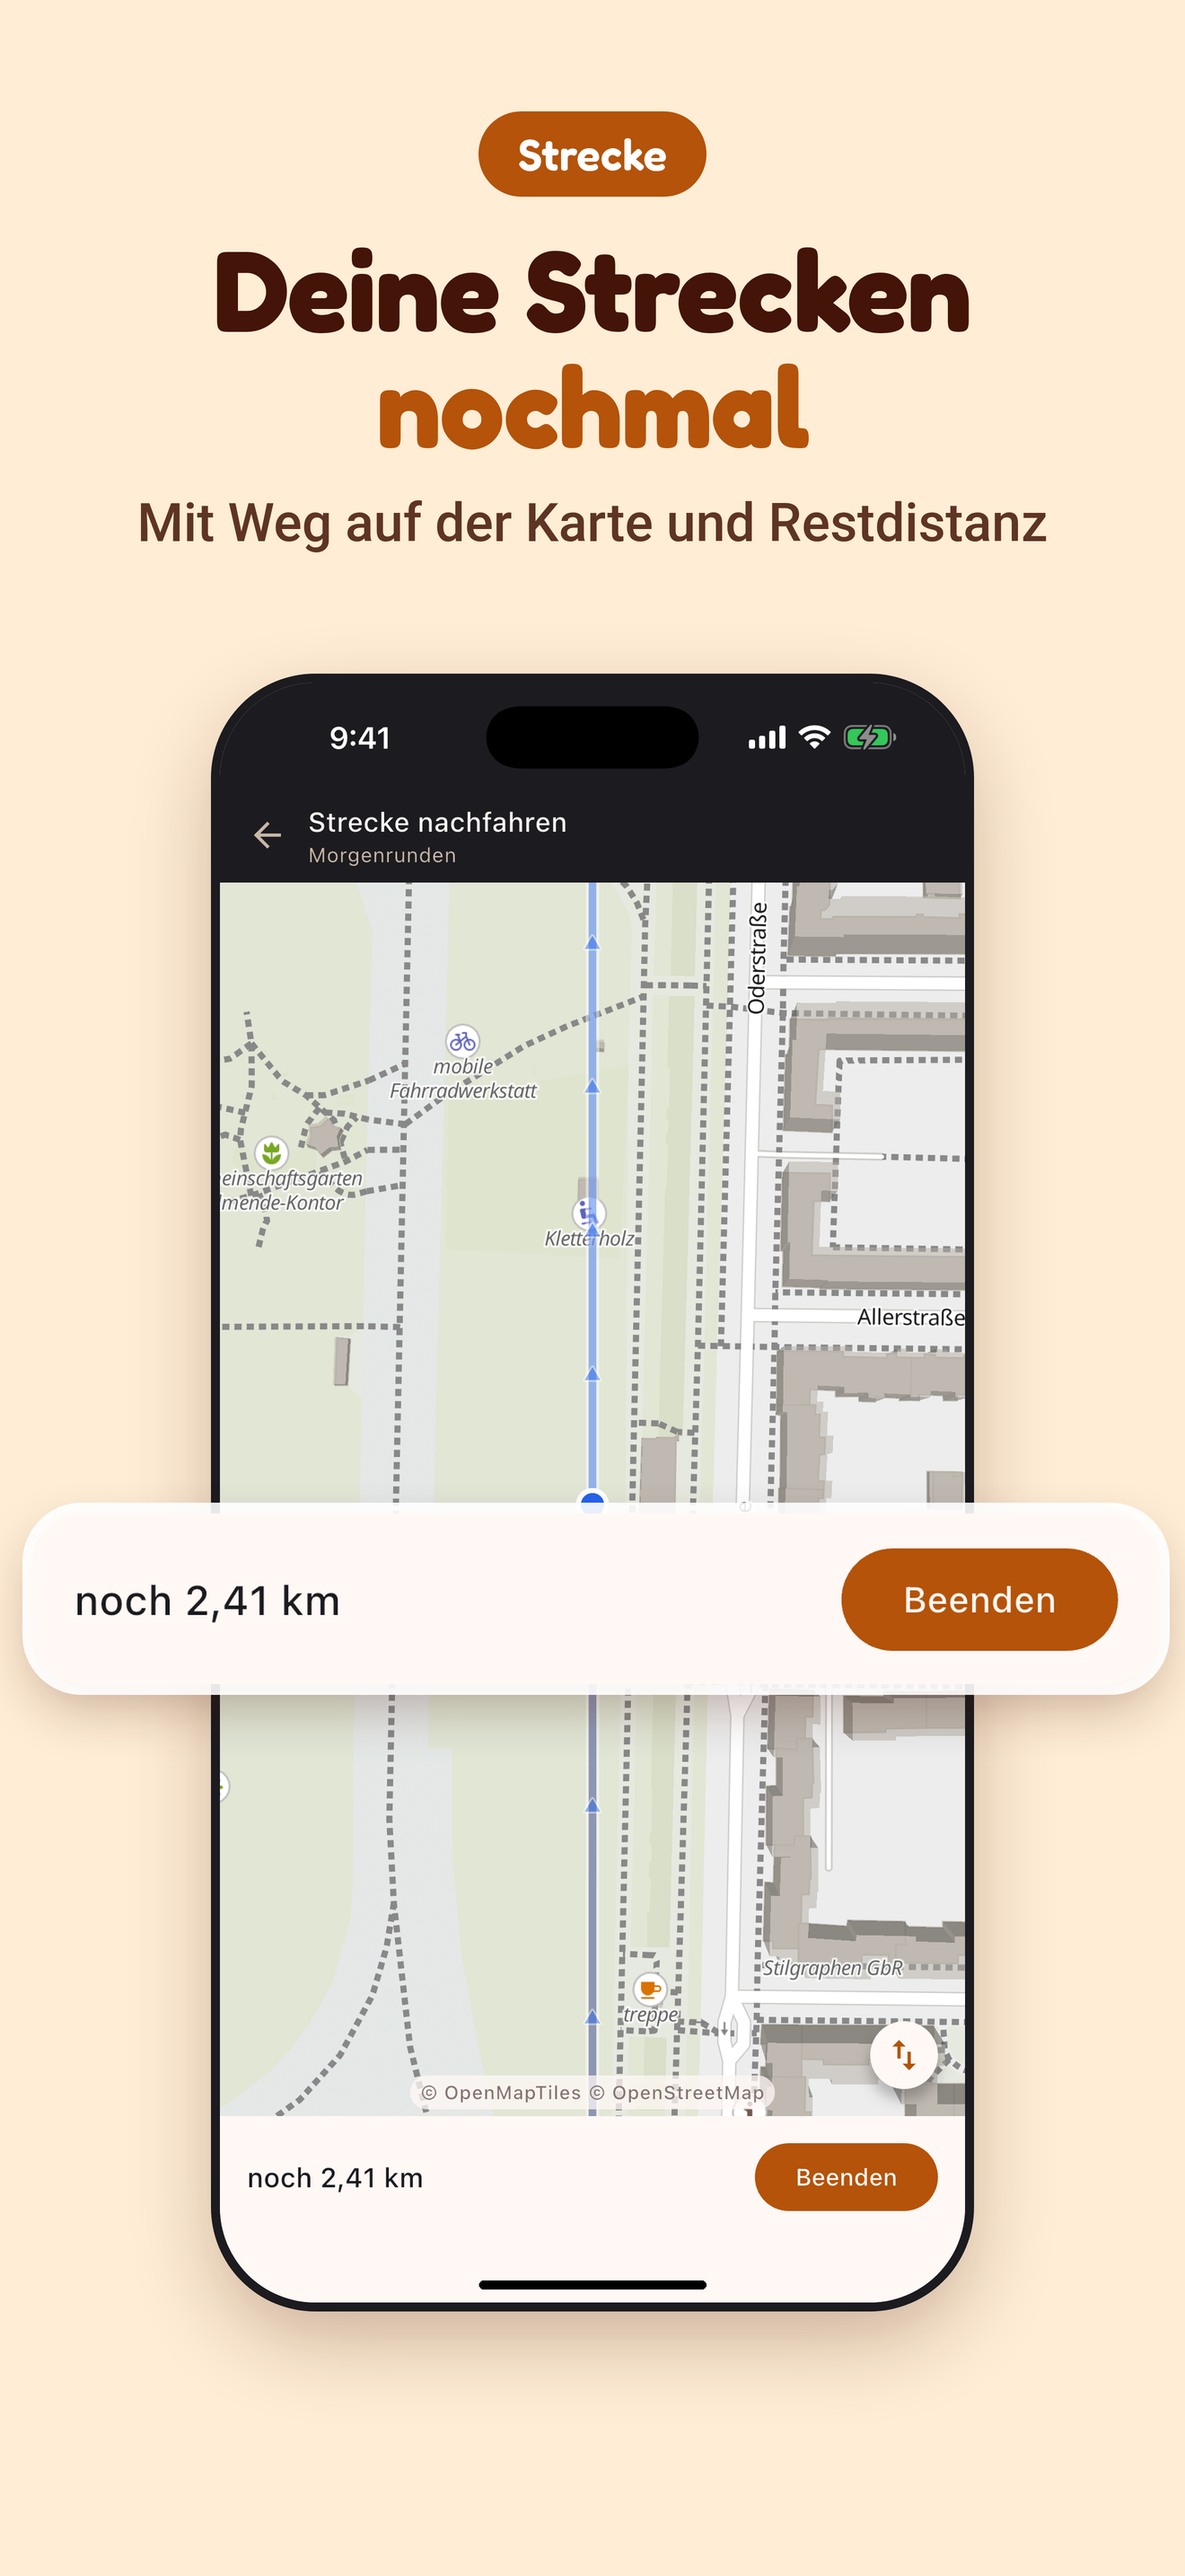
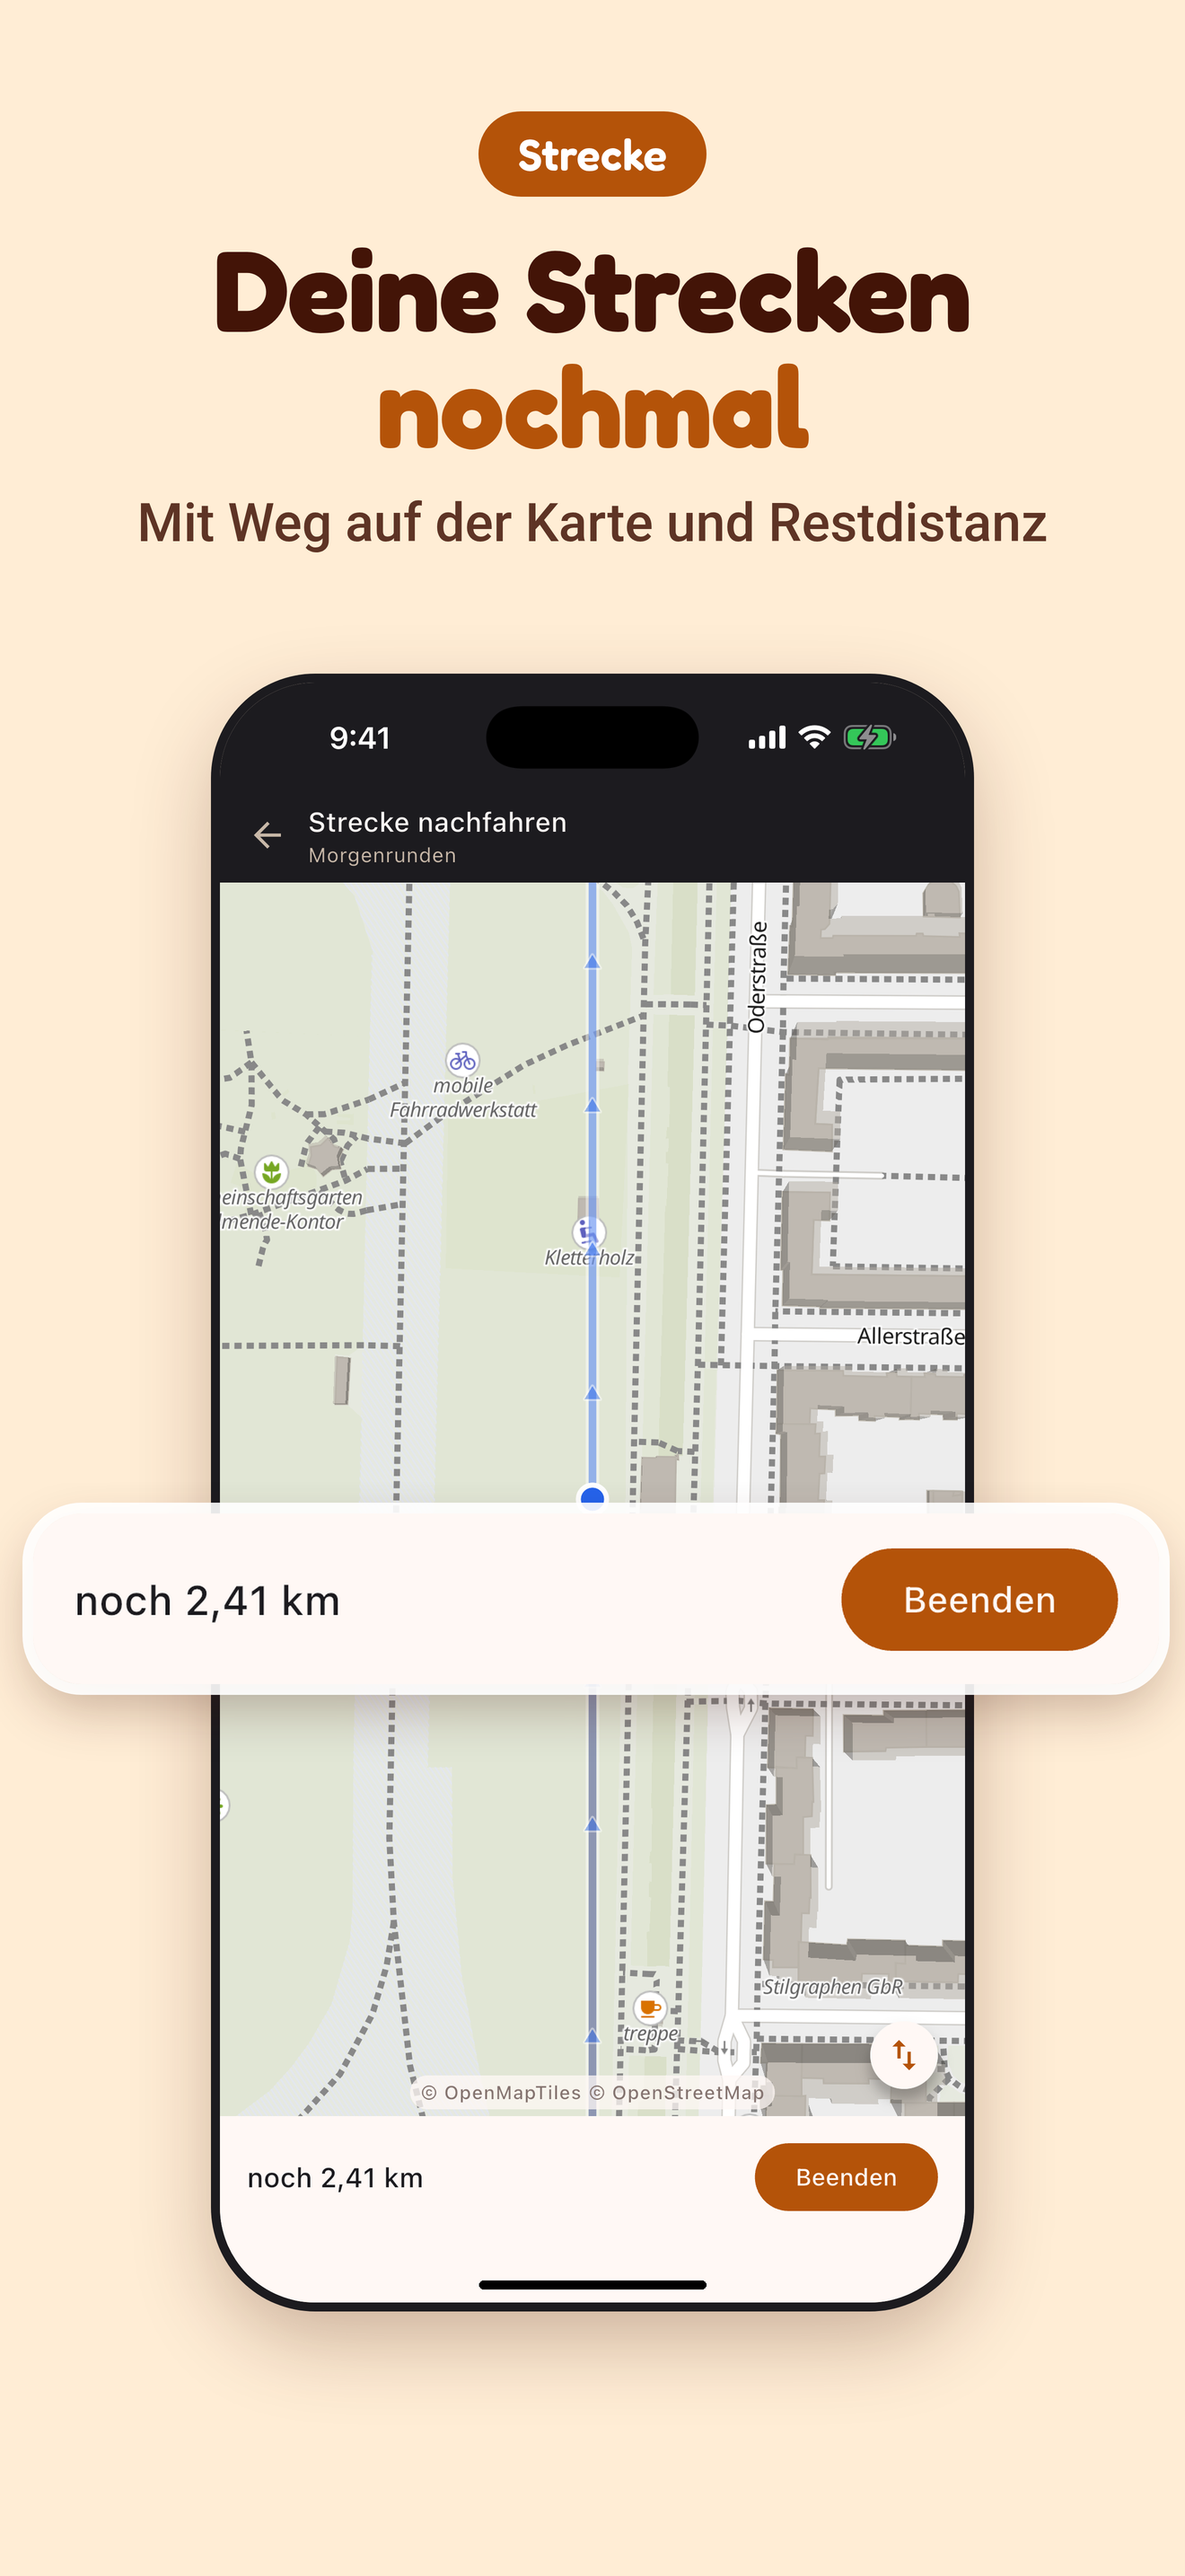
docs(store): iOS map motive shows the pin and the route card on two phones
Claude-Session: https://claude.ai/code/session_018rGj2tM4nr4j1R9T9oikZD

diff --git a/docs/app-store.md b/docs/app-store.md
@@ -128,7 +128,7 @@ expected **4+**. Fill the questionnaire in App Store Connect with "None" everywh
   view the test cannot capture) and writes an ack file into the app's Documents. Each shot is checked
   for size and for a known text per screen (Vision OCR). The Live Activity on the lock screen is not
   automated. Framing: `tool/render_ios_store_graphics.sh` and `store/ios/screenshot_frame.html`
-  (1320 × 2868, motives and captions in `store/ios/screenshots.tsv`, 10 motives, the Play ones plus winter and the second history motive).
+  (1320 × 2868, motives and captions in `store/ios/screenshots.tsv`, 10 motives, the Play ones plus winter and the second history motive; the map motive is two phones, the circle with its pin and the same map with the route card, because the card covers the pin).
 - Support URL and marketing URL: https://getretrail.app. Support contact: retrail.app@proton.me.
 - Price: free. Paid features later need the Paid Apps agreement and the trader status (#67).
 
